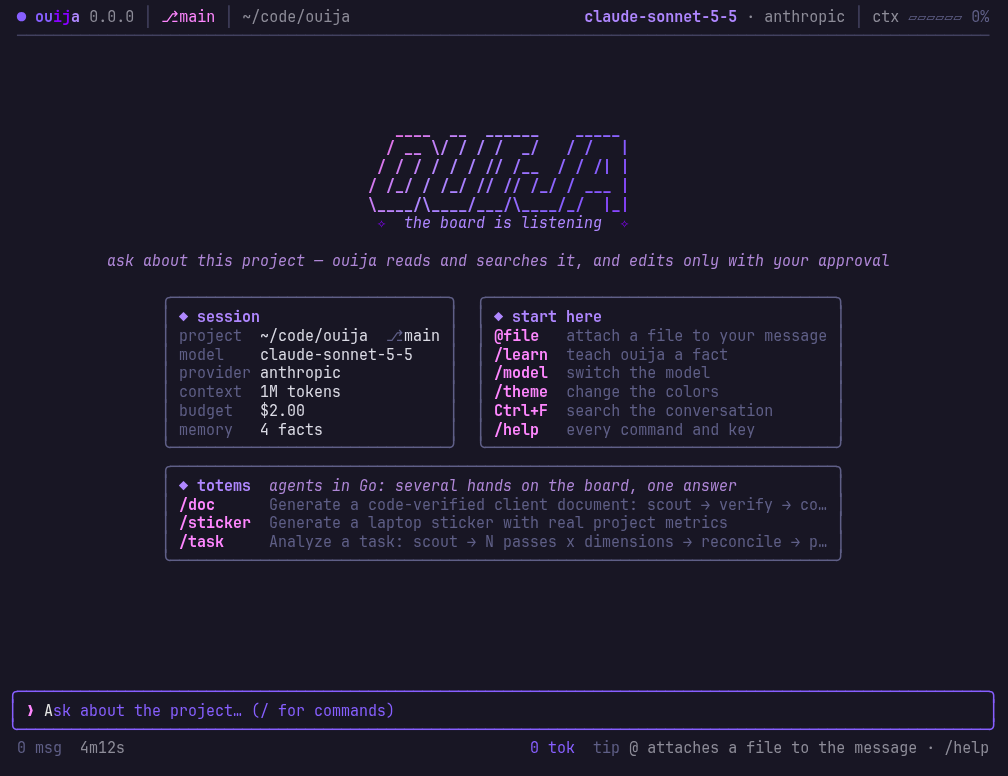
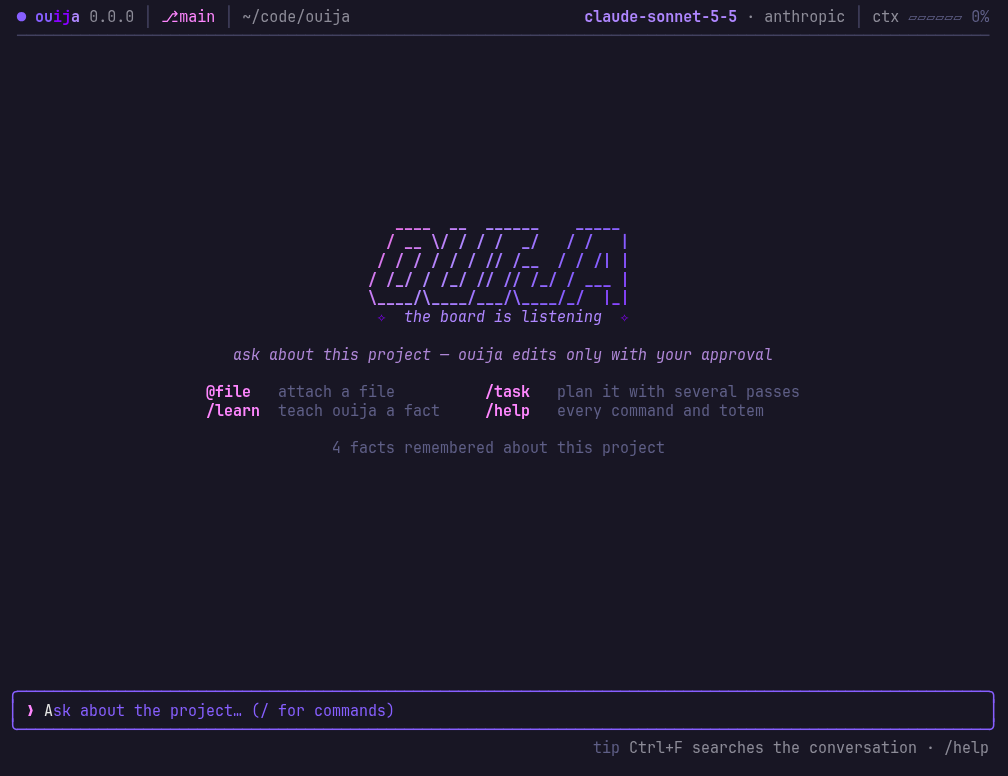
docs(readme): refresh the screenshots and the GIF for the new welcome

diff --git a/README.md b/README.md
@@ -66,7 +66,7 @@ the chat (and runs the setup the first time).
 ## The chat
 
 <p align="center">
-  <img src="assets/screens/chat-welcome.png" alt="ouija chat: the welcome screen, with the session, where to start and the totems" width="720">
+  <img src="assets/screens/chat-welcome.png" alt="ouija chat: the welcome screen — the logo and four places to start" width="720">
 </p>
 
 Each reply says what it did: the turn's tools on one line (a failed command
